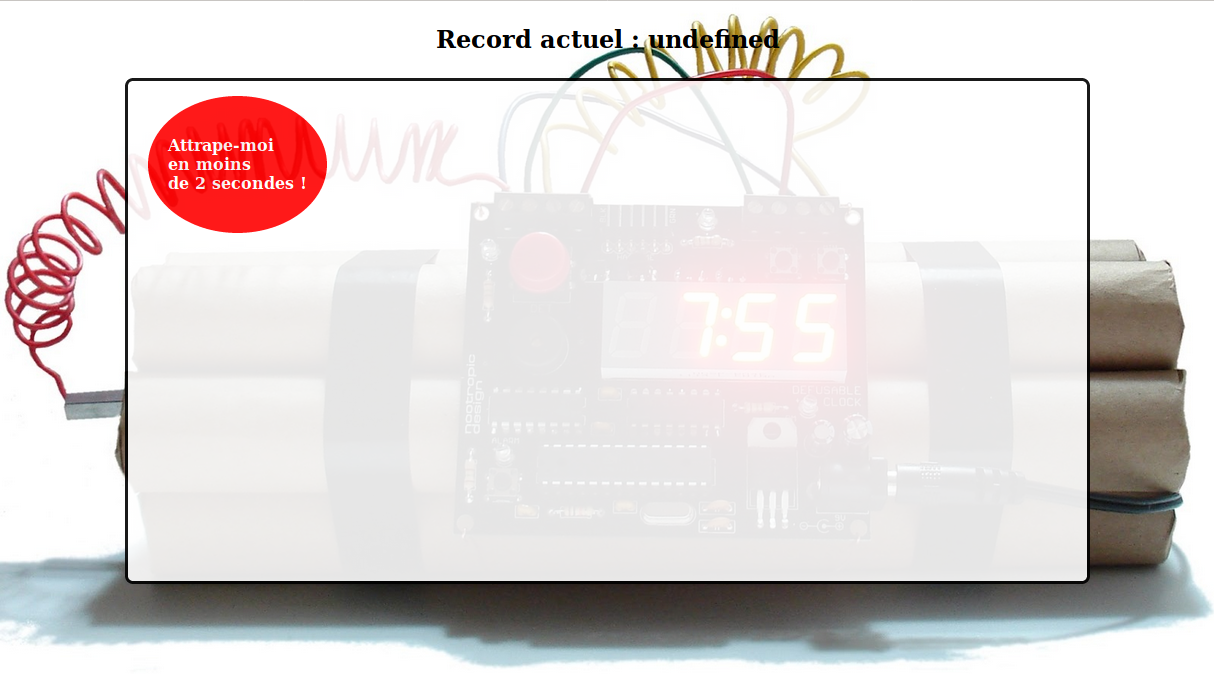
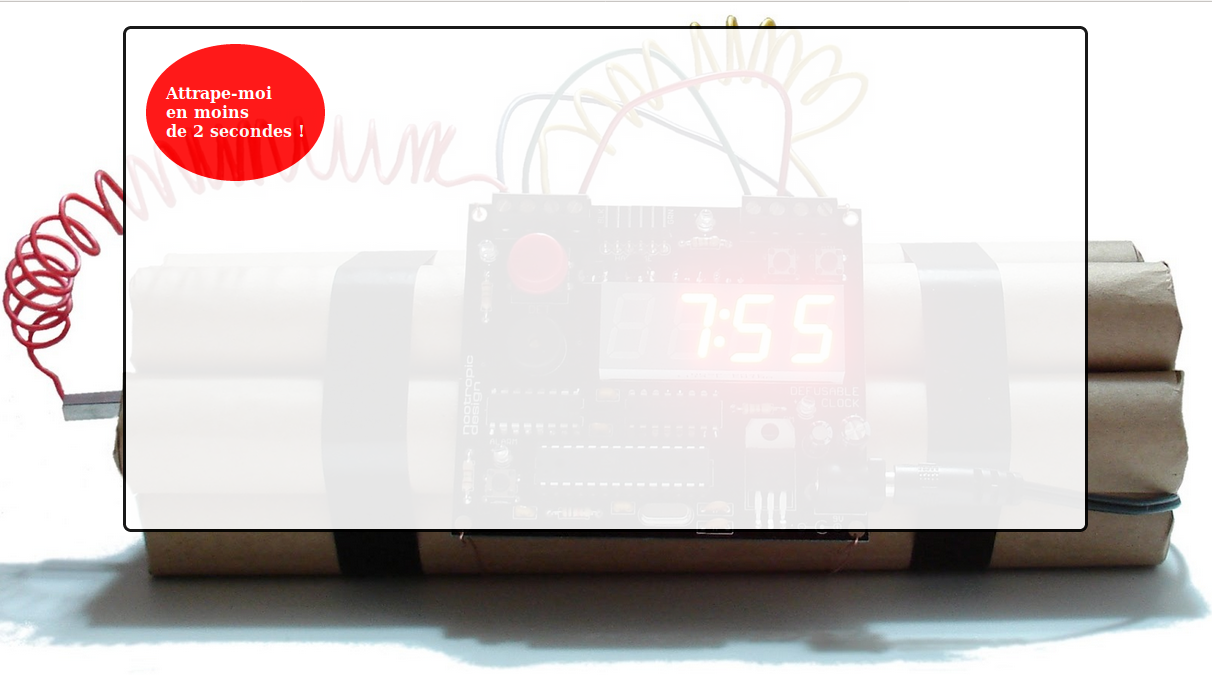
ajout d'un h1 dans le slider et suppression du record dans le jeu de la bombe. Changement de captures d'écran

Changed region(s): [[0.0, 0.0, 0.9158, 0.8724], [0.0305, 0.5297, 0.0611, 0.592]]

diff --git a/portfolio/jeu-bombe/bombe.js b/portfolio/jeu-bombe/bombe.js
@@ -1,8 +1,6 @@
 let score = 0;
-let highestScore = document.getElementById("highestScore");
 let x = document.getElementById("button-to-catch");
 let nbPoints = document.getElementById("score");
-highestScore.innerHTML = "Record actuel : " + localStorage.score; // pour conserver le record actuel
 
 x.addEventListener("click", function() { // une fonction qui, au clic du bouton, fait déplacer le bouton ailleurs
 x.style.left = Math.floor((Math.random()*450) + 1) + "px"; /* Pour cela, utiliser la propriété style
@@ -14,10 +12,6 @@ nbPoints.innerHTML = score += 10; // on rajoute 10 points à chaque clic dans le
 
 x.addEventListener("animationend", function() { // le message de défaite à la fin de l'animation
 		alert("Trop lent !");
-		if (score > localStorage.score) {
-			localStorage.score = score; // affichage du record
-		}
-		highestScore.innerHTML = "Record actuel : " + localStorage.score;
 });
 
 function replay() {

diff --git a/portfolio/slider-js/index.html b/portfolio/slider-js/index.html
@@ -9,7 +9,10 @@
 </head>
 <body>
 	<img src="img/agneau.jpg" alt="agneau" id="slider">
-	<p id="number-image"> 1 / 7 </p>
+	<div>
+		<h1> Slider en JavaScript sur mes animaux préférés </h1>
+		<p id="number-image"> 1 / 7 </p>
+	</div>
 	<script src="slider.js"></script>
 </body>
 </html>

diff --git a/portfolio/jeu-bombe/bombe.css b/portfolio/jeu-bombe/bombe.css
@@ -42,7 +42,7 @@ body {
 	transition: all .1.5s ease-in-out;
 } /* l'animation répétée */
 
-.points, .minuteur, .record {
+.points, .minuteur {
 	text-align: center;
 	font-weight: bold;
 	font-size: 24px;

diff --git a/portfolio/slider-js/slider.css b/portfolio/slider-js/slider.css
@@ -12,3 +12,9 @@ p {
 	text-align: center;
 	font-size: 1.25em;
 }
+
+div {
+	display: flex;
+	justify-content: space-around;
+	margin-top: -10px;
+}
